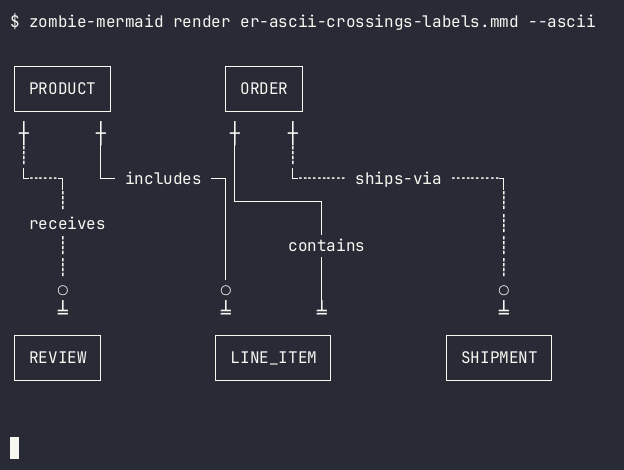
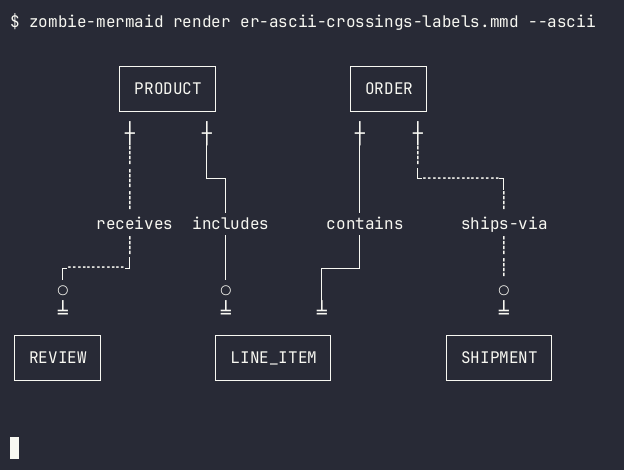
ER ASCII: refresh test expectations, fork-fixes screenshot and darwin baselines after merging main

diff --git a/__tests__/ascii-er-elk-hints-2663.test.ts b/__tests__/ascii-er-elk-hints-2663.test.ts
@@ -33,16 +33,16 @@ describe('ER ASCII with ELK layout hints', () => {
     const out = render(SAMPLE)
     expect(out).toBe(
       [
-        '┌─────────┐           ┌───────┐',
-        '│ PRODUCT │           │ ORDER │',
-        '└─────────┘           └───────┘',
-        ' ┼       ┼             ┼     ┼',
-        ' ┊       │             │     ┊',
-        ' └╌╌╌┐   └─ includes ─┐│     └╌╌╌╌╌ ships-via ╌╌╌╌╌┐',
-        '     ┊                │└────────┐                  ┊',
-        '  receives            │         │                  ┊',
-        '     ┊                │      contains              ┊',
-        '     ┊                │         │                  ┊',
+        '           ┌─────────┐             ┌───────┐',
+        '           │ PRODUCT │             │ ORDER │',
+        '           └─────────┘             └───────┘',
+        '            ┼       ┼               ┼     ┼',
+        '            ┊       │               │     ┊',
+        '            ┊       └─┐             │     └╌╌╌╌╌╌╌╌┐',
+        '            ┊         │             │              ┊',
+        '         receives  includes      contains      ships-via',
+        '            ┊         │             │              ┊',
+        '     ┌╌╌╌╌╌╌┘         │         ┌───┘              ┊',
         '     ○                ○         │                  ○',
         '     ╧                ╧         ╧                  ╧',
         '┌────────┐           ┌───────────┐           ┌──────────┐',
@@ -114,14 +114,14 @@ describe('ER ASCII with ELK layout hints', () => {
       ),
     ).toBe(
       [
-        '+---+',
-        '| A |',
-        '+---+',
-        ' + +',
-        ' | |',
-        ' | +------- owns --------+',
-        ' +--- has ----+          |',
-        '              |          |',
+        '                  +---+',
+        '                  | A |',
+        '                  +---+',
+        '                   + +',
+        '                   | |',
+        '                   | +---+',
+        '                   | has | owns',
+        '              +----+     |',
         '              o          o',
         '              ^          ^',
         '            +---+      +---+',
